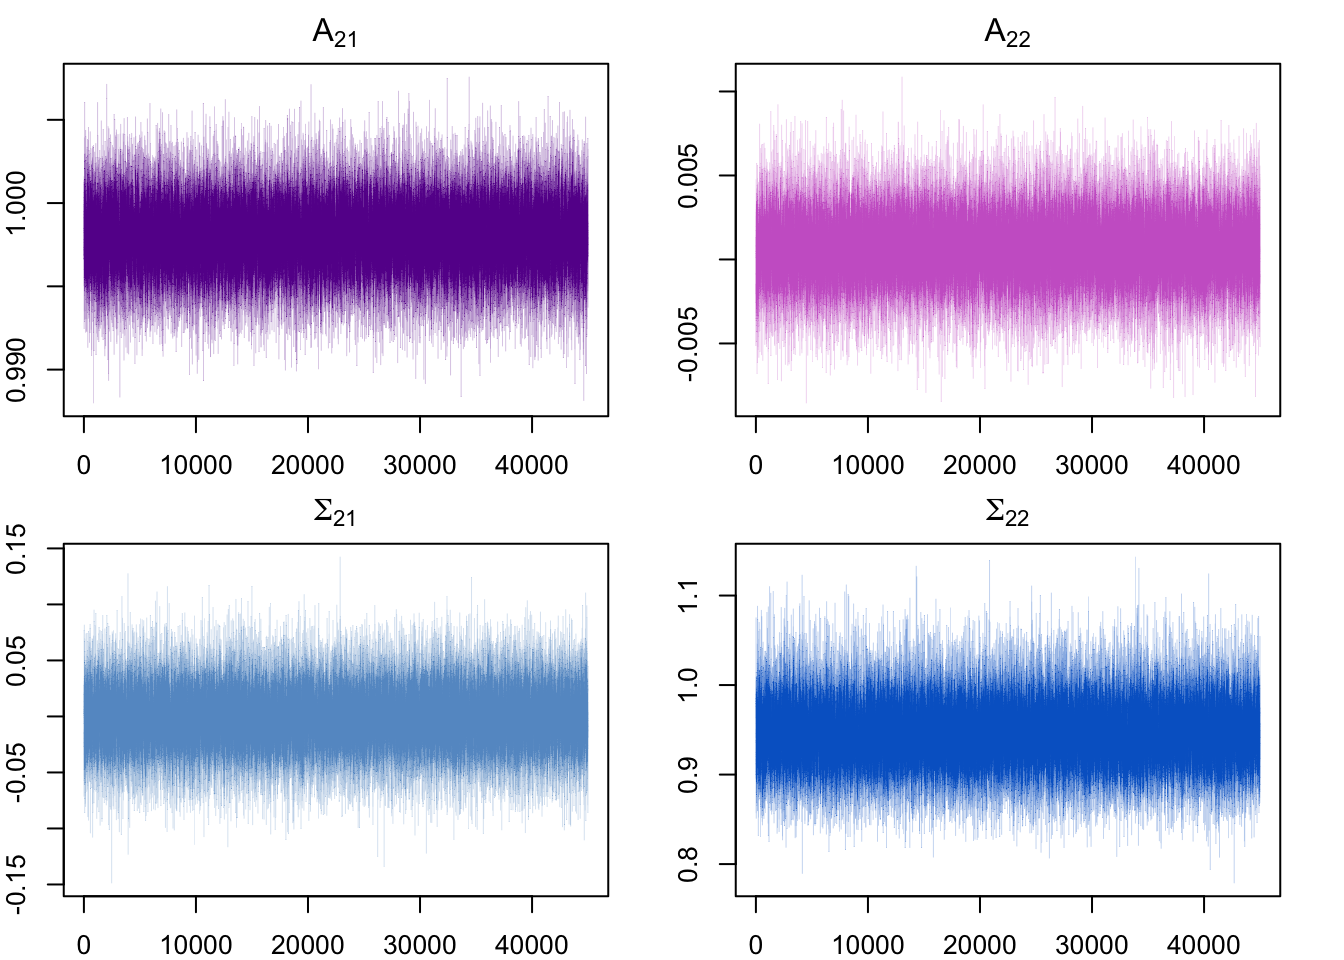
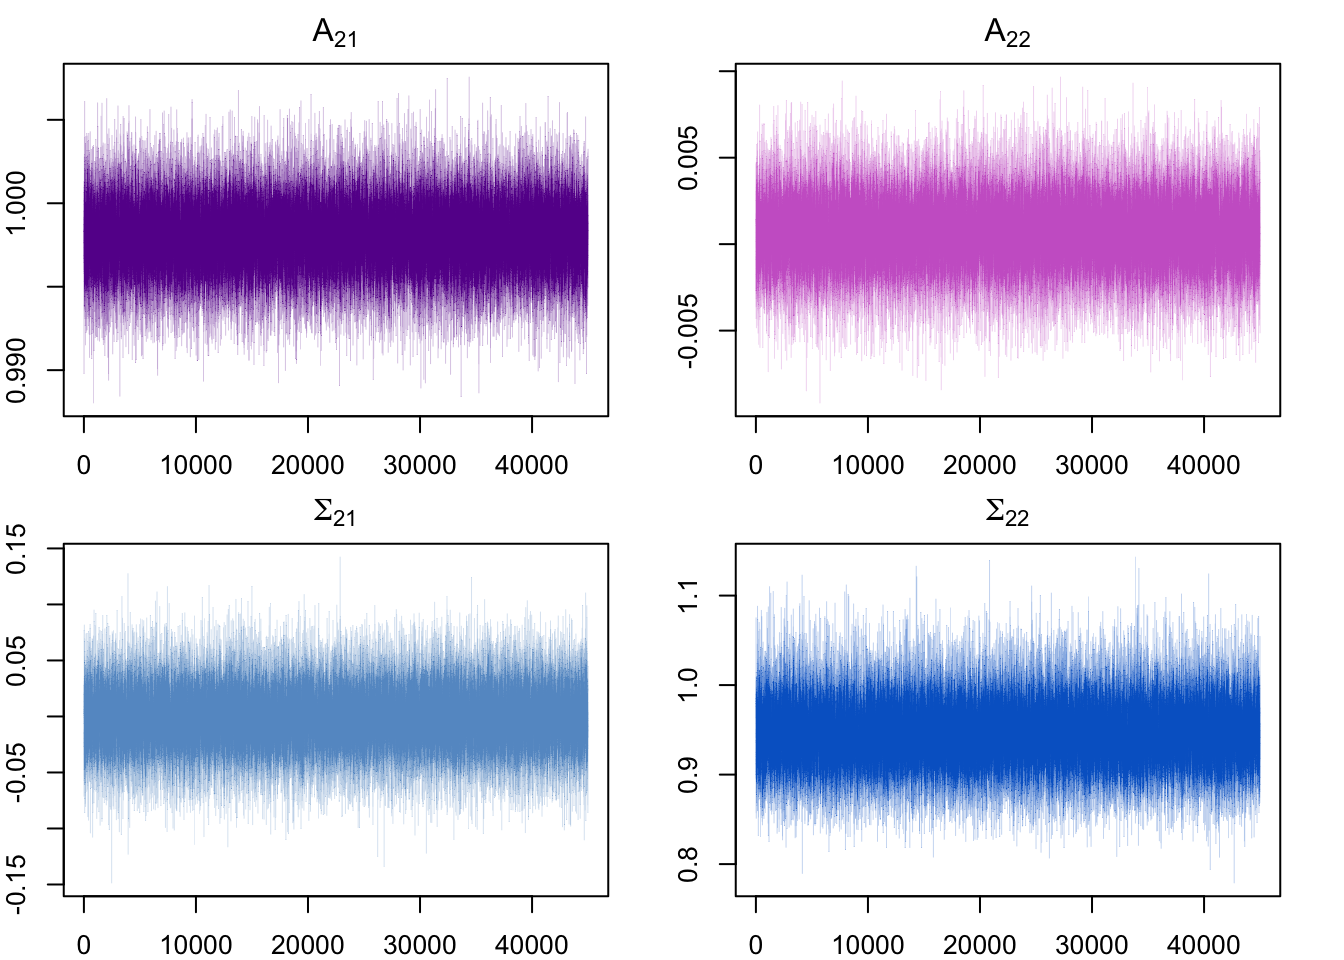
refined kappa prior

diff --git a/docs/index.html b/docs/index.html
@@ -945,16 +945,16 @@ exp\left\{ -\frac{1}{2} \frac{\underline{S}_{\kappa}}{\kappa} \right\}  \times e
 <caption>Table&nbsp;7: Extended Model - A</caption>
 <tbody>
 <tr class="odd">
-<td style="text-align: right;">0.0255</td>
-<td style="text-align: right;">0.0520</td>
+<td style="text-align: right;">0.0247</td>
+<td style="text-align: right;">0.0510</td>
 </tr>
 <tr class="even">
-<td style="text-align: right;">1.0160</td>
+<td style="text-align: right;">1.0161</td>
 <td style="text-align: right;">-0.0007</td>
 </tr>
 <tr class="odd">
-<td style="text-align: right;">-0.0060</td>
-<td style="text-align: right;">0.9405</td>
+<td style="text-align: right;">-0.0059</td>
+<td style="text-align: right;">0.9406</td>
 </tr>
 </tbody>
 </table>
